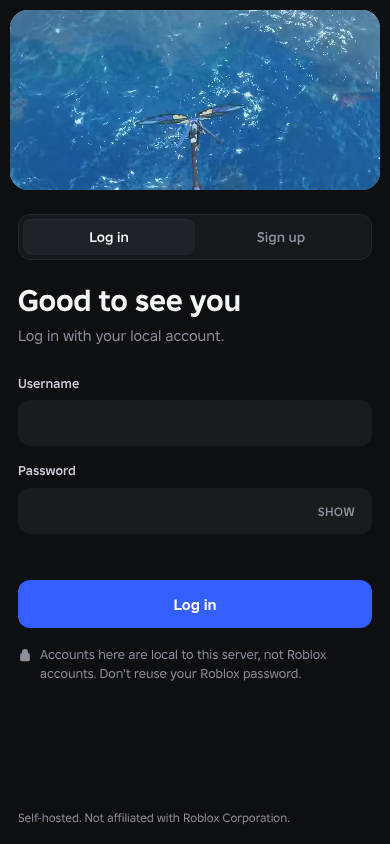
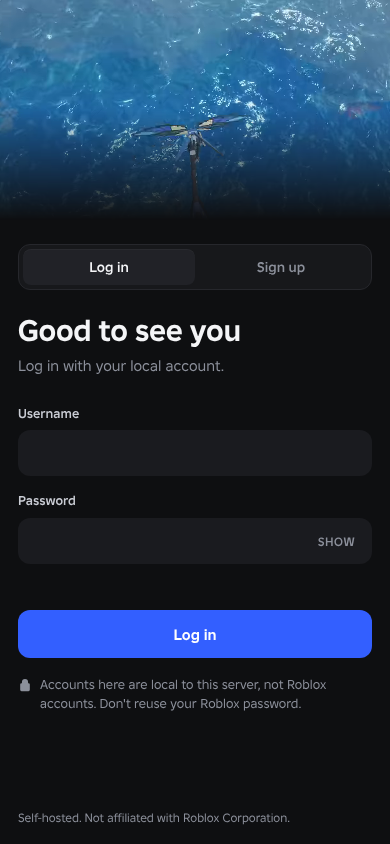
Login page: fade the video's edge instead of rounding its corners
The video panel runs to the screen edges and fades into the page toward the
form (downward on phones) rather than sitting in a rounded, inset frame.

Claude-Session: https://claude.ai/code/session_01Wp2Bm4qWJKqm9CfQuMmByv

diff --git a/webclient/pages/login.html b/webclient/pages/login.html
@@ -27,15 +27,17 @@
   html, body { margin: 0; min-height: 100%; }
   body { min-height: 100vh; background: var(--bg); color: var(--fg); font: 400 15px/1.45 var(--sans); -webkit-font-smoothing: antialiased; }
 
-  .page { display: grid; grid-template-columns: minmax(0, 1.15fr) minmax(420px, 1fr); min-height: 100vh; padding: 14px; gap: 14px; }
+  .page { display: grid; grid-template-columns: minmax(0, 1.15fr) minmax(420px, 1fr); min-height: 100vh; }
 
-  /* A framed window onto roblox.com's landing video. It has no controls and
-     can't be clicked, paused or opened picture-in-picture. */
-  .showcase { position: relative; overflow: hidden; border-radius: 22px; background: #1d1e22 url(/pages/assets/landing.jpg) center / cover; user-select: none; }
+  /* A panel showing roblox.com's landing video. It has no controls and
+     can't be clicked, paused or opened picture-in-picture. Its edge fades
+     into the page instead of ending in a hard border. */
+  .showcase { position: relative; overflow: hidden; background: var(--bg) url(/pages/assets/landing.jpg) center / cover; user-select: none;
+    -webkit-mask-image: linear-gradient(90deg, #000 55%, transparent); mask-image: linear-gradient(90deg, #000 55%, transparent); }
   .showcase video { position: absolute; inset: 0; width: 100%; height: 100%; object-fit: cover; pointer-events: none; }
 
   /* Form column. */
-  .side { display: flex; flex-direction: column; padding: 20px clamp(20px, 4vw, 56px) 14px; }
+  .side { display: flex; flex-direction: column; padding: 34px clamp(20px, 4vw, 56px) 28px; }
   main { flex: 1; display: flex; align-items: center; justify-content: center; padding: 40px 0; }
   .form { width: 100%; max-width: 380px; }
 
@@ -80,9 +82,9 @@
   .bottom { display: flex; justify-content: space-between; gap: 12px; color: var(--muted); font-size: 12px; }
 
   @media (max-width: 900px) {
-    .page { grid-template-columns: 1fr; grid-template-rows: auto 1fr; padding: 10px; gap: 0; }
-    .showcase { height: 180px; border-radius: 18px; }
-    .side { padding: 0 8px 8px; }
+    .page { grid-template-columns: 1fr; grid-template-rows: auto 1fr; }
+    .showcase { height: 220px; -webkit-mask-image: linear-gradient(180deg, #000 50%, transparent); mask-image: linear-gradient(180deg, #000 50%, transparent); }
+    .side { padding: 0 18px 18px; }
     main { align-items: flex-start; padding: 24px 0 28px; }
     .form { max-width: none; }
     .seg { margin-bottom: 24px; }
